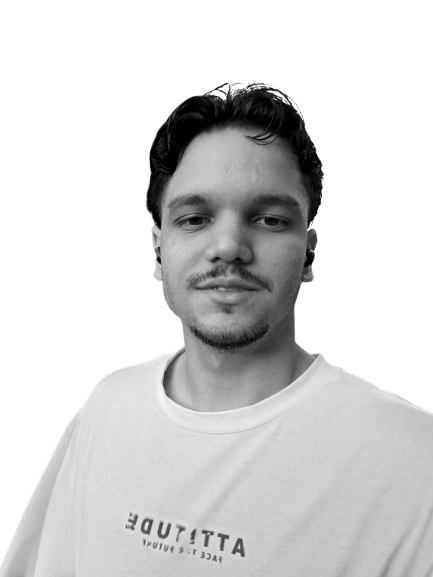
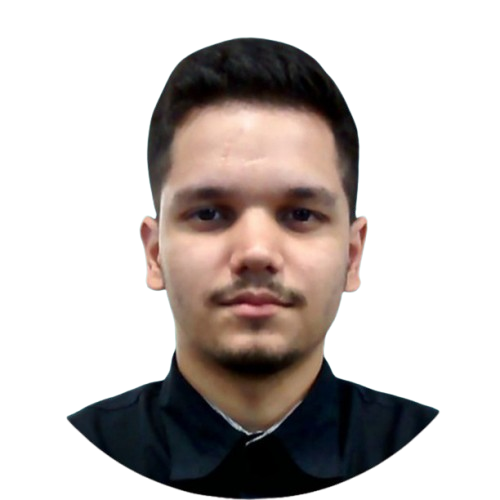
Atualizando cores e foto de perfil

diff --git a/src/components/Hero.tsx b/src/components/Hero.tsx
@@ -1,4 +1,5 @@
 import { ArrowRight, Download } from 'lucide-react';
+import PDF from '../assets/gustavo-suzuki.pdf'
 
 export default function Hero() {
   return (
@@ -20,13 +21,13 @@ export default function Hero() {
             <div className="flex flex-wrap gap-4">
               <a
                 href="#projetos"
-                className="group inline-flex items-center gap-2 bg-[#0ea5e9] hover:bg-[#b8070f] text-white px-8 py-4 rounded-lg font-semibold transition-all transform hover:scale-105 hover:shadow-lg hover:shadow-[#0ea5e9]/50"
+                className="group inline-flex items-center gap-2 bg-[#0ea5e9] hover:bg-[#0284c7] text-white px-8 py-4 rounded-lg font-semibold transition-all transform hover:scale-105 hover:shadow-lg hover:shadow-[#0ea5e9]/50"
               >
                 Ver Projetos
                 <ArrowRight className="w-5 h-5 group-hover:translate-x-1 transition-transform" />
               </a>
               <a
-                href="/assets/gustavo-suzuki.pdf"
+                href={PDF}
                 download
                 className="inline-flex items-center gap-2 bg-white/10 hover:bg-white/20 text-white px-8 py-4 rounded-lg font-semibold transition-all transform hover:scale-105 backdrop-blur-sm border border-white/20"
               >
